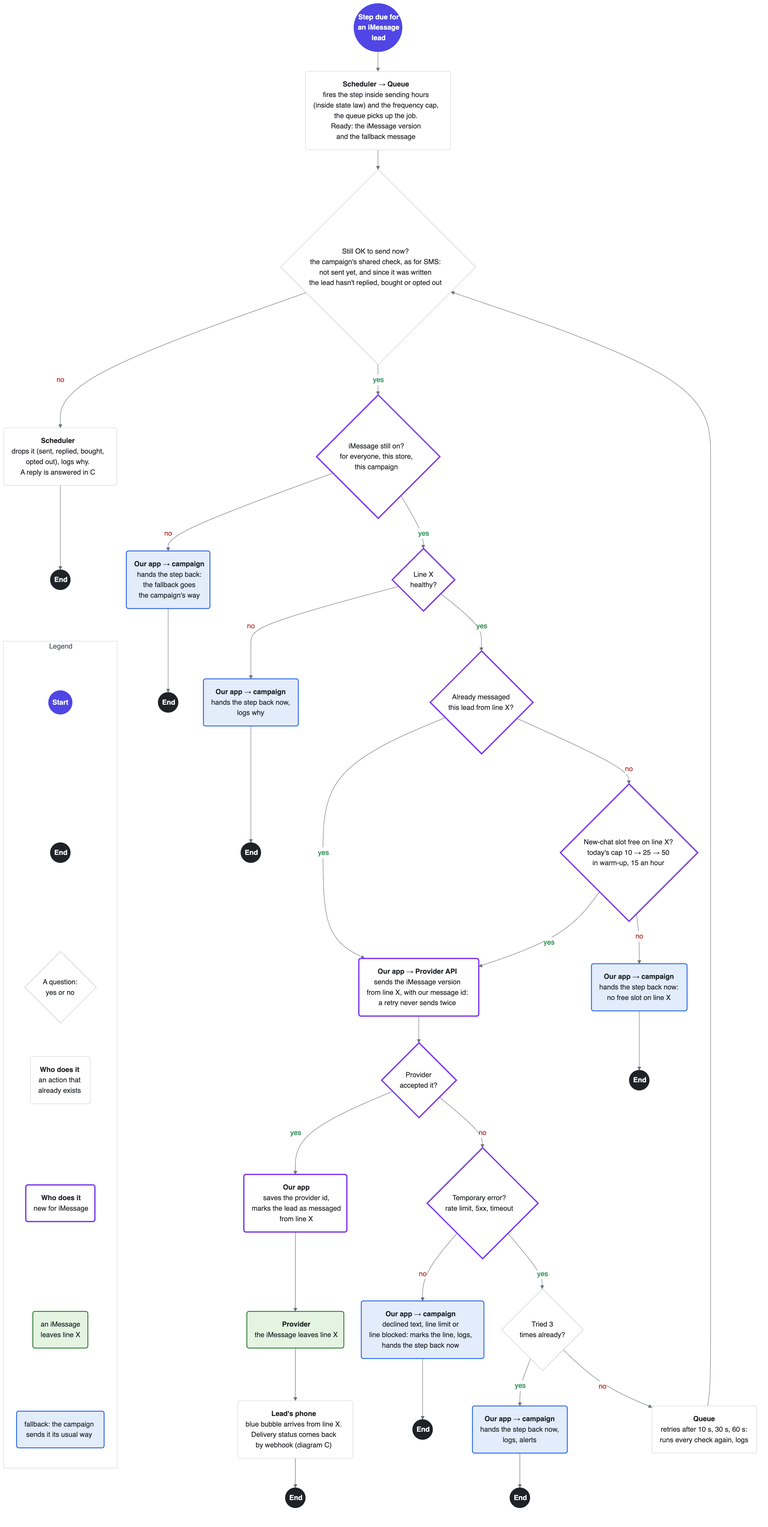
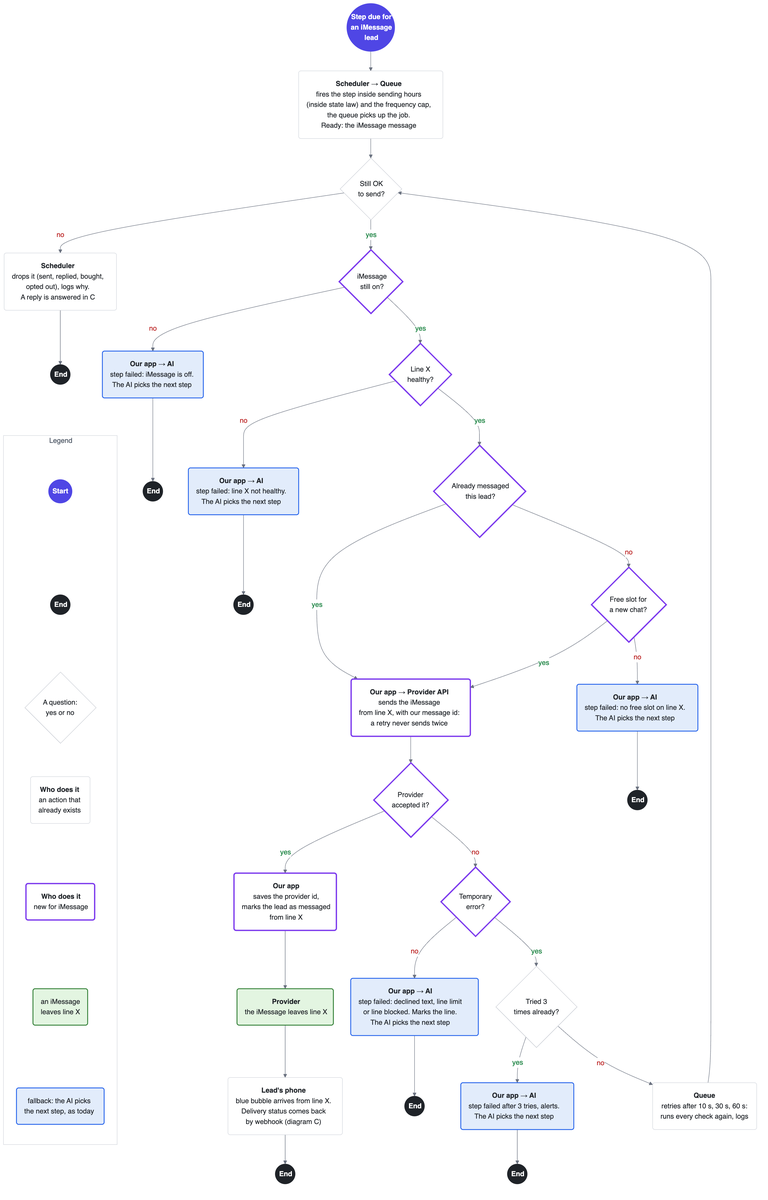
Diagrams: failures go back to the AI, shorter diamonds
- Fallback matches Outcraft's flow: if iMessage can't go, the step
  counts as failed and the AI picks the next step, as after a failed
  SMS today. No fallback message written ahead, no new campaign setting.
- C1 drops the "scheduled message?" question; both failures lead to
  one box.
- Every diamond is a short question, at most two lines. Details moved
  to the text above the diagrams.
- Appendix risks, build list and question 7 follow the same rule.

diff --git a/diagrams.md b/diagrams.md
@@ -4,22 +4,19 @@ Back to the plan: [README.md](README.md)
 
 **Why B and C:** messages leave a number and replies come back only in these two, so most failures happen here. A is manual in v1, and D is covered by the plan's section 3.
 
-**Where this sits in Outcraft's flow:** lead joins a campaign → before each iMessage step, the **iMessage check** → the AI writes the fallback message as usual, plus an iMessage version if the lead can get it → scheduler: step is due → **B**, only for leads who passed: send-time checks, then iMessage from line X, or the fallback → **C:** statuses and replies → AI answers. Leads who can't get iMessage get the campaign as usual.
+**Where this sits in Outcraft's flow:** lead joins a campaign → before each iMessage step, the **iMessage check** → the AI writes the step's message, by iMessage if the lead passed → scheduler: step is due → **B**, only for leads who passed: send-time checks, then iMessage from line X, or back to the AI → **C:** statuses and replies → AI answers and picks the next step. Leads who can't get iMessage get the campaign as usual.
 
 **How to read:**
-- 🟣 start (what triggers it) · ⚫ end, one per branch · ◇ a question, with yes and no arrows · ▢ an action, **bold** = who does it · 🟩 an iMessage leaves line X · 🟦 fallback: the campaign sends it its usual way, never from line X · 🟪 purple border: new for iMessage; grey border: already exists, shared with SMS
-- **Fallback** (🟦 blue boxes): when iMessage can't be used, the step goes back to the campaign, which sends it its usual way, with its own channel, settings, frequency caps and checks. Often that's SMS from the store's own number, sometimes a call. The campaign decides, not B. For a step, the fallback message is already written, so it goes at once, with no AI call.
-  - **Our app → campaign:** iMessage was possible, but a send-time check or the provider said no. Our app hands the step back at once and logs why.
-  - **AI → campaign** (diagram C): iMessage is off, line X fails mid-chat, or a chat answer fails, before or after sending. A chat answer has nothing written ahead, so the AI rewrites it first (it says it's the same store, because the number changes). Then it's handed back the same way as B. If the lead has no other text channel they agreed to, a person gets the chat instead.
+- 🟣 start (what triggers it) · ⚫ end, one per branch · ◇ a question, with yes and no arrows · ▢ an action, **bold** = who does it · 🟩 an iMessage leaves line X · 🟦 fallback: the AI picks the next step, as today, never from line X · 🟪 purple border: new for iMessage; grey border: already exists, shared with SMS
+- **Fallback** (🟦 blue boxes): when iMessage can't go, our app tells the AI that the step failed, and why, as a failed SMS does today. The AI picks the next step, as today, from the campaign's other channels: often SMS from the store's own number, sometimes a call. It never picks iMessage again for this lead in this campaign. Mid-chat, it says it's the same store, because the number changes. If the lead has no other text channel they agreed to, a person gets the chat instead.
 - **Who does it:** our app, the scheduler, the queue, the AI, the provider, or the lead's phone.
-- **Line X** is the store's iMessage line: one per store in v1, like its one SMS number. Every iMessage to the store's leads comes from it.
+- **Line X** is the store's iMessage line: one per store in v1, like its one SMS number. Every iMessage to the store's leads comes from it. It starts at most 10 new chats a day, then 25, then 50 as it warms up, and 15 an hour.
 - **iMessage switches:** one for everyone on Outcraft (our team, or the circuit breaker when the provider is down), one per store (our admins), one per campaign. All three must be on.
-- **Which steps:** iMessage is a fifth channel. In a campaign with iMessage on, every text step is an iMessage step, with a fallback the campaign sets (SMS or a call). So a lead never gets SMS and iMessage from two numbers. One number per lead: after a fallback, the lead's next steps run as usual.
-- **Fallback message:** what the campaign sends without iMessage: the message for the step's fallback channel, which the AI writes as usual (nothing to write for a call). The AI also writes an iMessage version.
+- **Which steps:** iMessage is a fifth channel. In a campaign with iMessage on, a lead who passed the check gets text steps by iMessage instead of SMS. So a lead never gets SMS and iMessage from two numbers. After a fallback, the lead's next steps run as usual.
 - **What B leaves to the existing system:** sending hours, state legal hours and the frequency cap (the scheduler fires the step inside them); reply, purchase and opt-out (the campaign's shared check, the same one SMS uses, run again at send time). B adds only the iMessage on-switch and line X's limits.
 - **Legal hours in C:** live replies skip the scheduler, so C checks legal hours itself, with the same rule. It checks before the AI writes, so no answer waits for hours and goes out stale.
 - **Checks in two places:** the full iMessage check runs before writing. At send time, the campaign's shared check and the on-switch run again, so nothing stale goes out. If the check, or the lookup, fails, the lead gets the campaign as usual.
-- **When iMessage fails:** if we know it didn't arrive (refused, failed, not on iMessage), the fallback goes at once. If we don't know (no delivery status in 15 min), we don't resend, so the lead never gets both. The lead is marked, and the next steps run as usual. A late "delivered" clears the mark.
+- **When iMessage fails:** if we know it didn't arrive (refused, failed, not on iMessage), the AI picks the next step at once. If we don't know (no delivery status in 15 min), we don't resend, so the lead never gets both. The lead is marked, and the next steps run as usual. A late "delivered" clears the mark.
 - **No double sends:** every send carries our message id, so a retry after a timeout never reaches the lead twice.
 - **A person takes over:** the AI stays quiet and the typing dots stop. If nobody answers within 1 hour, the AI sends one short holding message, inside legal hours: "Someone from the store will reply soon."
 - **The call after a text:** their default sequence calls about 3 minutes after a text step. That stays. If the lead replies first, the reply cancels scheduled steps, including that call (diagram C).
@@ -31,40 +28,40 @@ Back to the plan: [README.md](README.md)
 
 **Before B, when the AI writes the step** (not drawn, it's one check):
 1. **iMessage check** (joins today's channel check if there is one): iMessage on for the store and the campaign, a US/CA number, texting consent, not opted out, passes Do Not Call, not in FL, MD or OK during the pilot, the lookup says iMessage (cached 30 days), the iMessage group of the pilot, no fallback earlier in this campaign, and fewer than 2 unanswered iMessages. Any error, timeout or unknown means no.
-2. **The AI writes the fallback message** as usual (the message for the step's fallback channel, none for a call). If the check passed, it also writes an **iMessage version**: a short question with no link until the lead has written to our line, then the full message.
-3. **Both pass our content check,** or the AI rewrites them once. Still failing: nothing is sent, and the team is alerted.
+2. **The AI writes the step's message,** one message as today. For an iMessage lead, it's a short question with no link until the lead has written to our line, then the full message. If the iMessage fails, the AI writes the next step then.
+3. **It passes our content check,** or the AI rewrites it once. Still failing: nothing is sent, and the team is alerted.
 
-**Leads who fail the check** (Android, no consent, outside the pilot group) get only the usual message. The step runs as usual and never enters B.
+**Leads who fail the check** (Android, no consent, outside the pilot group) get the campaign as usual. Their steps never enter B.
 
 ```mermaid
 %%{init: {"theme": "base", "themeVariables": {"fontFamily": "Helvetica, Arial, sans-serif", "primaryColor": "#ffffff", "primaryBorderColor": "#d0d4db", "primaryTextColor": "#1f2328", "lineColor": "#6b7280", "edgeLabelBackground": "#ffffff"}, "themeCSS": "foreignObject { overflow: visible; } .nodeLabel { white-space: nowrap; }", "flowchart": {"curve": "basis", "nodeSpacing": 40, "rankSpacing": 45, "padding": 18}}}%%
 flowchart TD
-    S(("<b>Step due for<br/>an iMessage<br/>lead</b>")) --> A1("<b>Scheduler → Queue</b><br/>fires the step inside sending hours<br/>(inside state law) and the frequency cap,<br/>the queue picks up the job.<br/>Ready: the iMessage version<br/>and the fallback message")
-    A1 --> Q0{"Still OK to send now?<br/>the campaign's shared check, as for SMS:<br/>not sent yet, and since it was written<br/>the lead hasn't replied, bought or opted out"}
+    S(("<b>Step due for<br/>an iMessage<br/>lead</b>")) --> A1("<b>Scheduler → Queue</b><br/>fires the step inside sending hours<br/>(inside state law) and the frequency cap,<br/>the queue picks up the job.<br/>Ready: the iMessage message")
+    A1 --> Q0{"Still OK<br/>to send?"}
     Q0 -- no --> X3("<b>Scheduler</b><br/>drops it (sent, replied, bought,<br/>opted out), logs why.<br/>A reply is answered in C") --> E0(("<b>End</b>"))
-    Q0 -- yes --> QI{"iMessage still on?<br/>for everyone, this store,<br/>this campaign"}:::new
-    QI -- no --> SMS1("<b>Our app → campaign</b><br/>hands the step back:<br/>the fallback goes<br/>the campaign's way"):::sms --> E2(("<b>End</b>"))
+    Q0 -- yes --> QI{"iMessage<br/>still on?"}:::new
+    QI -- no --> SMS1("<b>Our app → AI</b><br/>step failed: iMessage is off.<br/>The AI picks the next step"):::sms --> E2(("<b>End</b>"))
     QI -- yes --> Q7{"Line X<br/>healthy?"}:::new
-    Q7 -- no --> SMS2("<b>Our app → campaign</b><br/>hands the step back now,<br/>logs why"):::sms --> E4(("<b>End</b>"))
-    Q7 -- yes --> Q6{"Already messaged<br/>this lead from line X?"}:::new
-    Q6 -- yes --> SEND("<b>Our app → Provider API</b><br/>sends the iMessage version<br/>from line X, with our message id:<br/>a retry never sends twice"):::new
-    Q6 -- no --> Q8{"New-chat slot free on line X?<br/>today's cap 10 → 25 → 50<br/>in warm-up, 15 an hour"}:::new
+    Q7 -- no --> SMS2("<b>Our app → AI</b><br/>step failed: line X not healthy.<br/>The AI picks the next step"):::sms --> E4(("<b>End</b>"))
+    Q7 -- yes --> Q6{"Already messaged<br/>this lead?"}:::new
+    Q6 -- yes --> SEND("<b>Our app → Provider API</b><br/>sends the iMessage<br/>from line X, with our message id:<br/>a retry never sends twice"):::new
+    Q6 -- no --> Q8{"Free slot for<br/>a new chat?"}:::new
     Q8 -- yes --> SEND
-    Q8 -- no --> SMS3("<b>Our app → campaign</b><br/>hands the step back now:<br/>no free slot on line X"):::sms --> E5(("<b>End</b>"))
+    Q8 -- no --> SMS3("<b>Our app → AI</b><br/>step failed: no free slot on line X.<br/>The AI picks the next step"):::sms --> E5(("<b>End</b>"))
     SEND --> Q13{"Provider<br/>accepted it?"}:::new
     Q13 -- yes --> OK2("<b>Our app</b><br/>saves the provider id,<br/>marks the lead as messaged<br/>from line X"):::new
     OK2 --> OUT("<b>Provider</b><br/>the iMessage leaves line X"):::out
     OUT --> PH("<b>Lead's phone</b><br/>blue bubble arrives from line X.<br/>Delivery status comes back<br/>by webhook (diagram C)")
     PH --> E6(("<b>End</b>"))
-    Q13 -- no --> Q14{"Temporary error?<br/>rate limit, 5xx, timeout"}:::new
-    Q14 -- no --> SMS5("<b>Our app → campaign</b><br/>declined text, line limit or<br/>line blocked: marks the line, logs,<br/>hands the step back now"):::sms --> E8(("<b>End</b>"))
+    Q13 -- no --> Q14{"Temporary<br/>error?"}:::new
+    Q14 -- no --> SMS5("<b>Our app → AI</b><br/>step failed: declined text, line limit<br/>or line blocked. Marks the line.<br/>The AI picks the next step"):::sms --> E8(("<b>End</b>"))
     Q14 -- yes --> Q15{"Tried 3<br/>times already?"}
-    Q15 -- yes --> SMS4("<b>Our app → campaign</b><br/>hands the step back now,<br/>logs, alerts"):::sms --> E7(("<b>End</b>"))
+    Q15 -- yes --> SMS4("<b>Our app → AI</b><br/>step failed after 3 tries, alerts.<br/>The AI picks the next step"):::sms --> E7(("<b>End</b>"))
     Q15 -- no --> R4("<b>Queue</b><br/>retries after 10 s, 30 s, 60 s:<br/>runs every check again, logs") --> Q0
 
     subgraph LEGEND ["Legend"]
         direction TB
-        LG1(("<b>Start</b>")):::start ~~~ LG2(("<b>End</b>")):::finish ~~~ LG3{"A question:<br/>yes or no"}:::decision ~~~ LG4("<b>Who does it</b><br/>an action that<br/>already exists"):::action ~~~ LG5("<b>Who does it</b><br/>new for iMessage"):::new ~~~ LG6("an iMessage<br/>leaves line X"):::out ~~~ LG7("fallback: the campaign<br/>sends it its usual way"):::sms
+        LG1(("<b>Start</b>")):::start ~~~ LG2(("<b>End</b>")):::finish ~~~ LG3{"A question:<br/>yes or no"}:::decision ~~~ LG4("<b>Who does it</b><br/>an action that<br/>already exists"):::action ~~~ LG5("<b>Who does it</b><br/>new for iMessage"):::new ~~~ LG6("an iMessage<br/>leaves line X"):::out ~~~ LG7("fallback: the AI picks<br/>the next step, as today"):::sms
     end
     style LEGEND fill:#ffffff,stroke:#d0d4db,color:#4b5563
     E0 ~~~ LG1
@@ -84,7 +81,7 @@ flowchart TD
     linkStyle 2,5,8,12,14,21,22,27 color:#b91c1c,stroke:#6b7280
 ```
 
-🟣 start (what triggers it) · ⚫ end, one per branch · ◇ a question, with yes and no arrows · ▢ an action, **bold** = who does it · 🟩 an iMessage leaves line X · 🟦 fallback: the campaign sends it its usual way, never from line X · 🟪 purple border: new for iMessage; grey border: already exists, shared with SMS
+🟣 start (what triggers it) · ⚫ end, one per branch · ◇ a question, with yes and no arrows · ▢ an action, **bold** = who does it · 🟩 an iMessage leaves line X · 🟦 fallback: the AI picks the next step, as today, never from line X · 🟪 purple border: new for iMessage; grey border: already exists, shared with SMS
 
 If the diagram doesn't render: [diagram-b.png](diagram-b.png)
 
@@ -92,38 +89,38 @@ If the diagram doesn't render: [diagram-b.png](diagram-b.png)
 
 ## C. Provider webhooks: statuses and a lead's reply, up to the AI's answer going out
 
-**Before C1 and C2, for every event** (not drawn, as for SMS): our app checks the webhook's signature, so a fake one is rejected; skips an event it has already seen; saves the event, answers "OK" fast and puts it on the queue. Then **C1** handles delivery statuses, and **C2** handles a lead's reply. C2 runs the same shared check as B before any answer goes out.
+**Before C1 and C2, for every event** (not drawn, as for SMS): our app checks the webhook's signature, so a fake one is rejected; skips an event it has already seen; saves the event, answers "OK" fast and puts it on the queue. Then **C1** handles delivery statuses, and **C2** handles a lead's reply. C2 runs the same shared check as B before any answer goes out. Every 5 minutes, a catch-up job pulls events we missed and finds messages with no status after 15 minutes.
 
 ```mermaid
 %%{init: {"theme": "base", "themeVariables": {"fontFamily": "Helvetica, Arial, sans-serif", "primaryColor": "#ffffff", "primaryBorderColor": "#d0d4db", "primaryTextColor": "#1f2328", "lineColor": "#6b7280", "edgeLabelBackground": "#ffffff"}, "themeCSS": "foreignObject { overflow: visible; } .nodeLabel { white-space: nowrap; } .cluster-label .nodeLabel { font-size: 20px; font-weight: 600; color: #374151; }", "flowchart": {"curve": "basis", "nodeSpacing": 40, "rankSpacing": 45, "padding": 18}}}%%
 flowchart TD
-        S2(("<b>Every 5 min:<br/>catch-up job</b>")) --> QR{"A message with no<br/>delivery status after 15 min?<br/>no: a missed event"}:::new
+        S2(("<b>Every 5 min:<br/>catch-up job</b>")) --> QR{"No status<br/>after 15 min?"}:::new
         QR -- no --> Q3
         S(("<b>Lead's phone<br/>writes, or a<br/>status arrives</b>")) --> P1("<b>Provider</b><br/>receives it on line X,<br/>sends a webhook to our app<br/>(checked and saved, as for SMS)"):::new
-        P1 --> Q3{"Is it a reply<br/>from a lead?"}
+        P1 --> Q3{"A reply<br/>from a lead?"}
 
-    subgraph C2 ["C2. A lead's reply, up to the AI's answer"]
-        Q7{"Number matches<br/>a lead of this<br/>line's store?"}:::new
+    subgraph C2 ["C2. A lead's reply"]
+        Q7{"Known lead<br/>of this store?"}:::new
         Q7 -- no --> R1("<b>Our app</b><br/>saves to the inbox,<br/>tells the store") --> E7(("<b>End</b>"))
-        Q7 -- yes --> Q8{"Asks to stop?<br/>STOP, unsubscribe,<br/>'stop texting me'..."}:::new
+        Q7 -- yes --> Q8{"Asks<br/>to stop?"}:::new
         Q8 -- yes --> R2("<b>Our app</b><br/>opts the lead out on all<br/>of this store's channels,<br/>cancels steps") --> OUT2("<b>Provider</b><br/>one confirmation leaves line X"):::out
         OUT2 --> E8(("<b>End</b>"))
         Q8 -- no --> R3("<b>Our app</b><br/>cancels scheduled steps,<br/>marks the lead as replied,<br/>no-link rule lifts")
-        R3 --> Q9{"A person is handling<br/>this lead, or 30 AI<br/>replies reached?"}
+        R3 --> Q9{"A person on it,<br/>or 30 AI replies?"}
         Q9 -- yes --> R4("<b>Our app</b><br/>notifies the person, stops<br/>the typing dots, AI stays quiet") --> E9(("<b>End</b>"))
-        Q9 -- no --> QL{"Inside the lead's<br/>state legal hours?<br/>same rule as the scheduler"}
+        Q9 -- no --> QL{"Inside<br/>legal hours?"}
         QL -- no --> R9("<b>Queue</b><br/>waits until the hours open.<br/>The AI writes then,<br/>with the whole chat"):::new --> R5
-        QL -- yes --> R5("<b>Queue</b><br/>shows typing dots,<br/>waits 15 seconds"):::new --> Q10{"More messages came in<br/>meanwhile? only the newest<br/>message's job answers, max 60 s"}:::new
+        QL -- yes --> R5("<b>Queue</b><br/>shows typing dots,<br/>waits 15 s (60 s at most)"):::new --> Q10{"More messages<br/>came in?"}:::new
         Q10 -- yes --> R5
         Q10 -- no --> AI("<b>AI</b><br/>reads the whole chat and the<br/>order status, writes one answer,<br/>picks the next step")
-        AI --> Q11{"AI asks for a person,<br/>or the answer fails<br/>our content check?"}
+        AI --> Q11{"Needs a person, or<br/>fails content check?"}
         Q11 -- yes --> R4
-        Q11 -- no --> QS{"Still OK to send now?<br/>the campaign's shared check, as for SMS:<br/>not sent yet, and since it was written<br/>the lead hasn't replied, bought or opted out"}
+        Q11 -- no --> QS{"Still OK<br/>to send?"}
         QS -- no --> XS("<b>Our app</b><br/>drops the answer, logs why.<br/>A newer message gets<br/>its own answer") --> ES(("<b>End</b>"))
-        QS -- yes --> Q12{"iMessage still on,<br/>and line X healthy?"}:::new
-        Q12 -- no --> R6("<b>AI → campaign</b><br/>rewrites it for the other<br/>text channel, adds 'same<br/>store, new number', the<br/>campaign sends it as usual"):::sms --> E10(("<b>End</b>"))
-        Q12 -- yes --> R7("<b>Queue</b><br/>priority send on line X,<br/>campaign hours skipped,<br/>our message id stops double sends"):::new
-        R7 --> Q13{"Provider accepted it?<br/>temporary errors retried<br/>after 10 s, 30 s, 60 s,<br/>like diagram B"}:::new
+        QS -- yes --> Q12{"iMessage on,<br/>line X healthy?"}:::new
+        Q12 -- no --> R6("<b>AI</b><br/>picks the next step, as today:<br/>for example the answer by SMS,<br/>saying 'same store, new number'"):::sms --> E10(("<b>End</b>"))
+        Q12 -- yes --> R7("<b>Queue</b><br/>priority send on line X,<br/>retries like diagram B"):::new
+        R7 --> Q13{"Provider<br/>accepted it?"}:::new
         Q13 -- no --> R6
         Q13 -- yes --> OUT("<b>Provider</b><br/>the answer leaves line X,<br/>the number the lead wrote to"):::out
         OUT --> PH("<b>Lead's phone</b><br/>answer arrives in<br/>the same thread") --> E11(("<b>End</b>"))
@@ -131,17 +128,15 @@ flowchart TD
 
     subgraph C1 ["C1. Delivery statuses"]
         DR("<b>Queue</b><br/>no resend: it may still arrive.<br/>Marks the lead not on iMessage,<br/>so the next steps run as usual"):::new --> E13(("<b>End</b>"))
-        Q4a{"Provider says<br/>line X is blocked?"}:::new
+        Q4a{"Line X<br/>blocked?"}:::new
         Q4a -- yes --> D4
-        Q4a -- no --> Q4{"Status: sent,<br/>delivered or read?"}
+        Q4a -- no --> Q4{"Sent, delivered<br/>or read?"}
         Q4 -- yes --> D1("<b>Queue</b><br/>saves the status, updates<br/>line stats. A late 'delivered'<br/>clears 'not on iMessage'") --> E3(("<b>End</b>"))
-        Q4 -- no --> Q5{"Provider says: not<br/>on iMessage?"}:::new
-        Q5 -- no --> D3("<b>Queue</b><br/>the message failed: marks it,<br/>counts it for line health, logs"):::new --> QK
-        Q5 -- yes --> DM("<b>Queue</b><br/>marks the lead<br/>not on iMessage"):::new --> QK
-        QK{"Was it a scheduled message?<br/>yes: a campaign step from B<br/>no: our reply in a chat (C2)"}:::new
-        QK -- yes --> D5("<b>Our app → campaign</b><br/>sends the fallback<br/>written ahead, like B"):::sms --> E6(("<b>End</b>"))
-        QK -- no --> RA("<b>AI → campaign</b><br/>rewrites it for the other<br/>text channel, adds 'same<br/>store, new number', the<br/>campaign sends it as usual"):::sms --> E4(("<b>End</b>"))
-        D4("<b>Our app</b><br/>stops new leads on the line,<br/>moves its chats to the fallback,<br/>alerts Slack and the store"):::new --> E5(("<b>End</b>"))
+        Q4 -- no --> Q5{"Not on<br/>iMessage?"}:::new
+        Q5 -- no --> D3("<b>Queue</b><br/>the message failed: marks it,<br/>counts it for line health, logs"):::new --> FB
+        Q5 -- yes --> DM("<b>Queue</b><br/>marks the lead<br/>not on iMessage"):::new --> FB
+        FB("<b>Our app → AI</b><br/>the message failed, with the reason.<br/>The AI picks the next step, as today.<br/>Mid-chat, it says 'same store, new number'"):::sms --> E6(("<b>End</b>"))
+        D4("<b>Our app</b><br/>stops new leads on the line,<br/>alerts Slack and the store.<br/>Its open chats go to the AI,<br/>which picks the next step"):::new --> E5(("<b>End</b>"))
     end
 
     Q3 -- yes --> Q7
@@ -153,7 +148,7 @@ flowchart TD
 
     subgraph LEGEND ["Legend"]
         direction TB
-        LG1(("<b>Start</b>")):::start ~~~ LG2(("<b>End</b>")):::finish ~~~ LG3{"A question:<br/>yes or no"}:::decision ~~~ LG4("<b>Who does it</b><br/>an action that<br/>already exists"):::action ~~~ LG5("<b>Who does it</b><br/>new for iMessage"):::new ~~~ LG6("an iMessage<br/>leaves line X"):::out ~~~ LG7("fallback: the campaign<br/>sends it its usual way"):::sms
+        LG1(("<b>Start</b>")):::start ~~~ LG2(("<b>End</b>")):::finish ~~~ LG3{"A question:<br/>yes or no"}:::decision ~~~ LG4("<b>Who does it</b><br/>an action that<br/>already exists"):::action ~~~ LG5("<b>Who does it</b><br/>new for iMessage"):::new ~~~ LG6("an iMessage<br/>leaves line X"):::out ~~~ LG7("fallback: the AI picks<br/>the next step, as today"):::sms
     end
     style LEGEND fill:#ffffff,stroke:#d0d4db,color:#4b5563
     E6 ~~~ LG1
@@ -166,13 +161,13 @@ flowchart TD
     classDef sms fill:#e2ecfb,stroke:#2563eb,stroke-width:2px,color:#1f2328
     classDef new fill:#ffffff,stroke:#7c3aed,stroke-width:3px,color:#1f2328
     class S2,S start
-    class E7,E8,E9,ES,E10,E11,E13,E3,E6,E4,E5 finish
+    class E7,E8,E9,ES,E10,E11,E13,E3,E6,E5 finish
     class Q3,Q9,QL,Q11,QS,Q4 decision
     class R1,R2,R3,R4,AI,XS,PH,D1 action
-    linkStyle 6,7,12,17,19,22,26,29,32,36,38,43,45,50,52 color:#15803d,stroke:#6b7280
-    linkStyle 1,4,10,14,15,20,23,24,27,31,37,40,41,47,51 color:#b91c1c,stroke:#6b7280
+    linkStyle 6,7,12,17,19,22,26,29,32,36,38,43,47,49 color:#15803d,stroke:#6b7280
+    linkStyle 1,4,10,14,15,20,23,24,27,31,37,40,41,48 color:#b91c1c,stroke:#6b7280
 ```
 
-🟣 start (what triggers it) · ⚫ end, one per branch · ◇ a question, with yes and no arrows · ▢ an action, **bold** = who does it · 🟩 an iMessage leaves line X · 🟦 fallback: the campaign sends it its usual way, never from line X · 🟪 purple border: new for iMessage; grey border: already exists, shared with SMS
+🟣 start (what triggers it) · ⚫ end, one per branch · ◇ a question, with yes and no arrows · ▢ an action, **bold** = who does it · 🟩 an iMessage leaves line X · 🟦 fallback: the AI picks the next step, as today, never from line X · 🟪 purple border: new for iMessage; grey border: already exists, shared with SMS
 
 If the diagram doesn't render: [diagram-c.png](diagram-c.png)

diff --git a/appendix.md b/appendix.md
@@ -41,10 +41,10 @@ Back to the plan: [README.md](README.md) · [Diagrams](diagrams.md)
 **Provider details that shape the build.** From Blooio's docs (our pick):
 - Before a written reply, a chat allows 3 plain-text messages, and links and media are blocked (`conversation_content_restricted`). Our no-link rule and "two unanswered → next channel" stay inside that.
 - The `one_way` rule: over 10 new chats a day (3-day average) with under 40% written replies slows the line, then pauses new chats. Sizing has to allow for it (section F).
-- Its 429 errors such as `conversation_awaiting_reply` aren't temporary, and retrying won't help. Our retry logic reads the error key, not just the status code, and sends the fallback message at once.
+- Its 429 errors such as `conversation_awaiting_reply` aren't temporary, and retrying won't help. Our retry logic reads the error key, not just the status code, and tells the AI at once, which picks the next step.
 - The `safety.state_changed` webhook and the health endpoint (polled every 5 minutes) feed our health job.
 - One banned number slows every number on the account for 72 hours (`sibling_ban`), so each store gets its own sub-account.
-- SMS fallback runs only through our own Twilio account. We leave it off and fall back to the campaign's next channel.
+- Its SMS fallback runs only through our own Twilio account. We leave it off, and the AI picks the next step instead.
 
 From Linq's docs (plan B):
 - A `phone_number.status_updated` webhook reports health changes (healthy, at risk, critical), so the health job uses Linq's own signal.
@@ -71,9 +71,9 @@ The plan lists the main ones. The full list:
 | **One customer's content** | Adult, drug or scam content can get our *whole* provider account closed, with no refund. | Admins check what the brand sells before turning it on (list below). Every AI message passes a content check. Watch opt-outs and "who is this" replies per customer. Sub-account and kill switch per customer. |
 | **Apple ends the channel** | Apple blocks the providers' method for everyone, overnight. | Leads fall back to the next channel automatically. We lose the blue bubble, not the leads. See section I. |
 | **Provider down** | Every send fails and retries 3 times, so carts wait. Replies sent while webhooks are down are lost. | If most sends fail for 5 minutes, a circuit breaker turns iMessage off for everyone and steps go on the next channel. It turns back on after a test send works. The catch-up job collects missed replies. |
-| **Not enough lines** | Carts go cold within an hour, and 50 a day fills fast. | One line per store in v1. If its daily or hourly cap is full, the fallback message goes at once, with no waiting. The pilot sizes the iMessage group to fit the line (section F). |
-| **Failed iMessage** | A failed message waits while the cart goes cold, or a resend reaches the lead twice. | The AI writes the fallback message as usual, plus an iMessage version. If we know the iMessage didn't arrive (refused after 10 s, 30 s and 60 s retries, failed, not on iMessage), the fallback message goes at once, the campaign's way, with no AI call. If we don't know (no delivery status in 15 minutes), we don't resend: the lead is marked, and the next steps run as usual. Live chat answers go first in the queue, before normal steps. |
-| **Lead not on iMessage** | Android (about 4 in 10 US phones), iMessage turned off, numbers outside the US, numbers that moved to Android but are still registered with Apple. | Look the number up before the first send and cache it for 30 days. "Not on iMessage" → the fallback message at once. No delivery status within 15 minutes → no resend; the cache is cleared and the next steps run as usual. If the lookup itself fails, the lead stays on the fallback. v1 covers US/CA only. See section C. |
+| **Not enough lines** | Carts go cold within an hour, and 50 a day fills fast. | One line per store in v1. If its daily or hourly cap is full, the AI picks the next step at once, with no waiting. The pilot sizes the iMessage group to fit the line (section F). |
+| **Failed iMessage** | A failed message waits while the cart goes cold, or a resend reaches the lead twice. | If we know the iMessage didn't arrive (refused after 10 s, 30 s and 60 s retries, failed, not on iMessage), the AI gets it at once and picks the next step, as after a failed SMS today. If we don't know (no delivery status in 15 minutes), we don't resend: the lead is marked, and the next steps run as usual. Live chat answers go first in the queue, before normal steps. |
+| **Lead not on iMessage** | Android (about 4 in 10 US phones), iMessage turned off, numbers outside the US, numbers that moved to Android but are still registered with Apple. | Look the number up before the first send and cache it for 30 days. "Not on iMessage" → the AI picks the next step at once. No delivery status within 15 minutes → no resend; the cache is cleared and the next steps run as usual. If the lookup itself fails, the lead gets the campaign as usual. v1 covers US/CA only. See section C. |
 | **Cost** | Lines are a fixed monthly cost. Long chats also cost more in AI calls. | The pilot splits iPhone leads 50/50, with and without iMessage. See section F. |
 | **Opt-out** | iMessage has no carrier STOP. | We detect STOP, "unsubscribe" and similar ourselves, opt the lead out on all channels and send one confirmation. |
 | **Webhooks** | Duplicates, late or out-of-order events, missed retries. | Check the signature, skip events we've seen, save then queue. A catch-up job every 5 min pulls missed events and messages with no delivery status after 15 minutes. |
@@ -86,7 +86,7 @@ The plan lists the main ones. The full list:
 - Checked every 15 min: the provider's `line_blocked` event, blocked or declined errors, delivery rate over the last 100 sends, failures in a row, replies against sends, opt-out rate, days with no sends.
 - **Yellow:** delivery under 90%, or opt-outs above 2%. The daily new-chat cap halves, and Slack gets an alert.
 - **Red:** the provider says blocked, 5 failures in a row, or delivery under 70%. No new leads on the line, its chats move to the next channel, and Slack and the customer are told. The ops on-call replaces the line within one working day.
-- A replacement line starts its warm-up again, so with one line per store, the store is back to 10 new chats a day for 2–3 weeks. More of its leads go the campaign's way meanwhile.
+- A replacement line starts its warm-up again, so with one line per store, the store is back to 10 new chats a day for 2–3 weeks. More of its leads get the campaign as usual meanwhile.
 - A weekly Slack summary per line catches slow decline.
 
 ## C. Android
@@ -223,7 +223,7 @@ Two-sided test, 5% significance, 80% power. The baselines without iMessage (6% r
 
 **Full build after a go (4 weeks, one engineer)**
 - **Replies first (diagram C), weeks 1–2:** provider interface, webhooks with the catch-up job, STOP handling, chat rules (typing dots, 15 s wait, a cap of 30), content check.
-- **Then sending (diagram B), weeks 3–4:** the channel check before writing, the fallback message plus an iMessage version, iMessage steps with their fallback, per-line limits, no-link rules, health alerts, the random split.
+- **Then sending (diagram B), weeks 3–4:** the channel check before writing, the iMessage message, iMessage text steps, failures reported to the AI, per-line limits, no-link rules, health alerts, the random split.
 - **SMS-only code:** if the shared send check sits inside the SMS code, we pull it out first, about one more week.
 - The test module keeps running meanwhile, so the 3 stores don't lose iMessage.
 
@@ -243,7 +243,7 @@ Two-sided test, 5% significance, 80% power. The baselines without iMessage (6% r
 **Waits in v1, and why:**
 - **Self-serve and billing:** needs pilot numbers first.
 - **More than one line per store:** needs line choice and pinning each lead to one line. One line fits the pilot.
-- **Waiting for a free slot:** in v1, no slot on line X hands the step back at once, like every other "no". If the pilot shows many such hand-backs (for example, when sending hours open), we add a short wait for the next slot, at most an hour.
+- **Waiting for a free slot:** in v1, no slot on line X tells the AI at once, like every other "no". If the pilot shows many of these (for example, when sending hours open), we add a short wait for the next slot, at most an hour.
 - **Moving a chat to a new line:** the next channel covers it in v1.
 - **Sending pictures:** not needed to win a reply.
 - **Group chats:** carts are one-to-one.
@@ -267,7 +267,7 @@ Two-sided test, 5% significance, 80% power. The baselines without iMessage (6% r
 4. Do the contact-hour and frequency controls already cover state rules (FL, MD, OK, TX)? Do they apply to AI replies? **If not:** pilot campaigns keep the default 9–17, Mon–Fri, which fits every state rule we found (section E), and C checks legal hours for AI replies.
 5. Where is consent stored?
 6. Is there a common channel interface? **If not:** before the full build we pull the shared send check out of the SMS code, about one more week (the "SMS-only code" risk).
-7. Does the AI write a step's message ahead, or when it's due? We plan to write the fallback message plus an iMessage version ahead, after the iMessage check. **If it writes when due:** it writes both then. That's one more AI call per send; diagram B stays the same.
+7. When an SMS fails today, does the AI get it and pick the next step? We assume so, from the flow in the brief. **If not:** iMessage failures go wherever failed SMS go today.
 8. Before the AI writes, does Outcraft check which channels a lead can get? **If yes:** iMessage joins that check. **If not:** we add one step before writing, the channel check.
 9. What share of our stores' shoppers use iPhones?
 10. Have you looked at RCS for Business?
